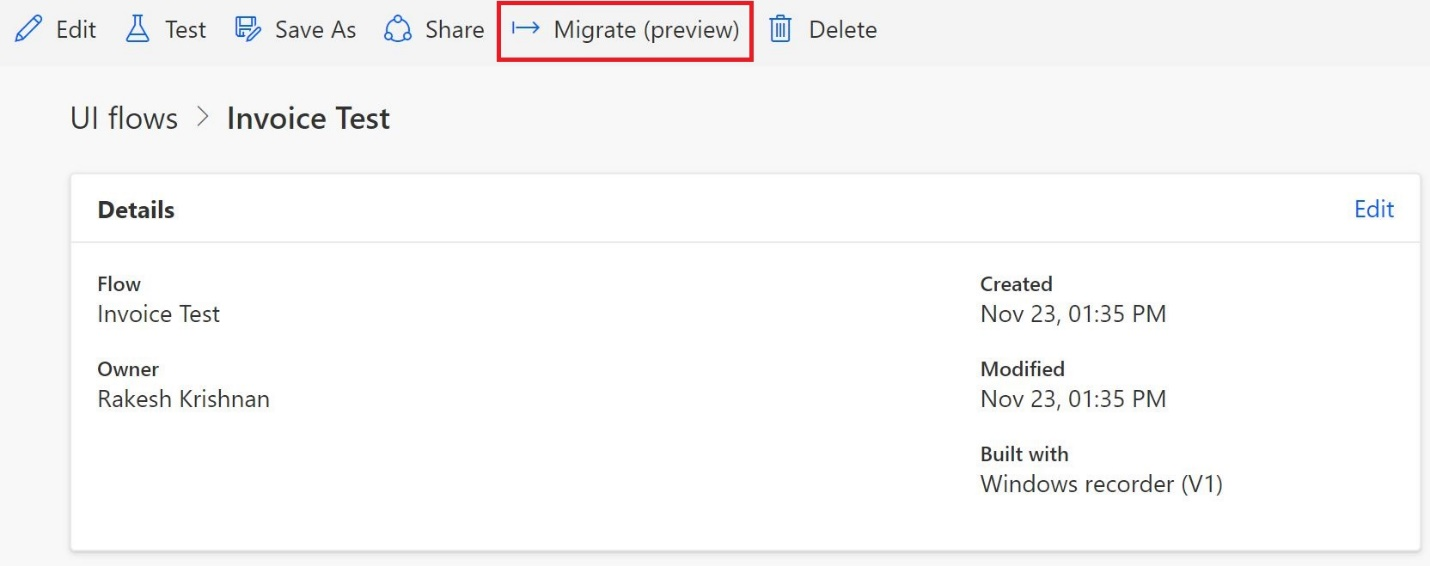
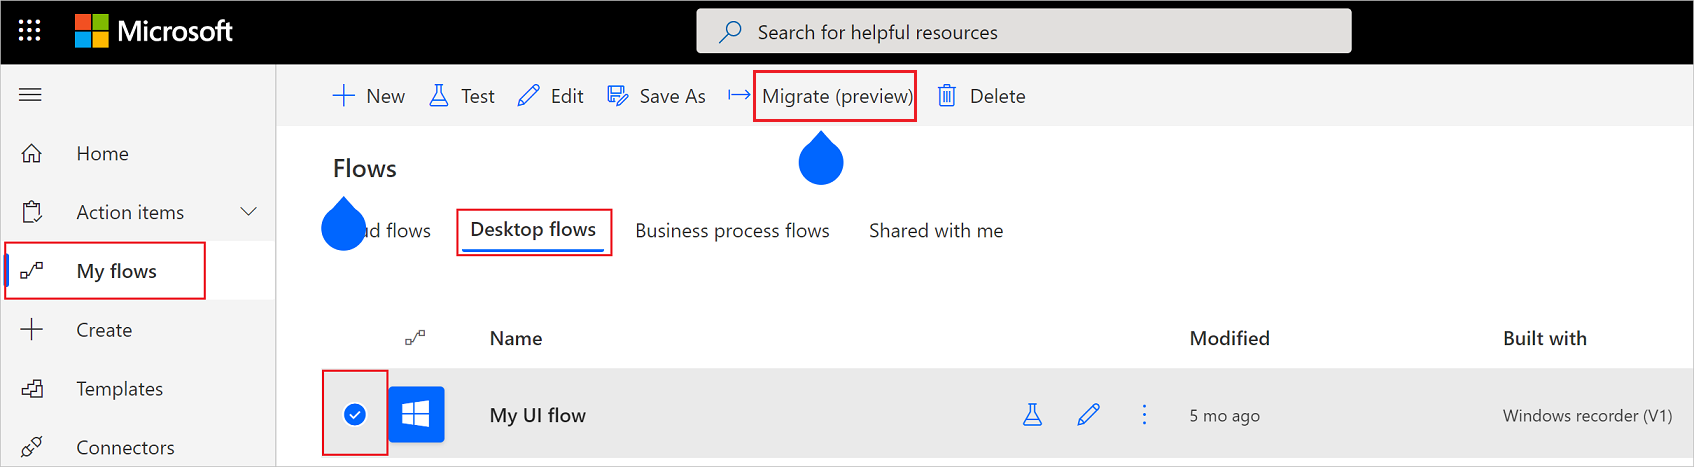
Update images and text

diff --git a/articles/desktop-flows/migrate.md b/articles/desktop-flows/migrate.md
@@ -25,24 +25,29 @@ search.audienceType:
 # Migrate from Windows recorder (V1) to Power Automate Desktop
 
 You can migrate desktop flows you've created with the legacy Windows recorder
-(v1) into Power Automate Desktop flows in just a few steps.
+(V1) into Power Automate Desktop flows in just a few steps.
 
 Follow these steps to migrate a legacy desktop flow.
 
 1. Sign into Power Automate.
 1. Select **My flows** > **Desktop flows**.
 1. Select the desktop flow you'd like to migrate to Power Automate Desktop.
-1. Select **Details**.
 1. Select **Migrate (preview)** on the desktop flow details page.
 
-   ![A screenshot that displays the migrate button](media/migrate-win-recorder/migrate-button.png)
+   ![A screenshot that displays the migrate option for a desktop flow](media/migrate-win-recorder/migrate-button.png)
 
-The migration wizard launches, when the process completes, a copy of the desktop flow is saved in the current environment. The resulting desktop flow can then be edited using the Power Automate Desktop designer. The original Windows recorder-based flow remains unchanged, in the original environment.
+   The migration wizard launches.
+
+1. Select **Migrate**.
+
+   ![A screenshot that displays the migrate button](media/migrate-win-recorder/migrate-wizard.png)
+   
+   When the process completes, a copy of the desktop flow is saved in the current environment. The resulting desktop flow can then be edited using the Power Automate Desktop designer. The original Windows recorder desktop flow remains unchanged.
+
+   ![A screenshot that displays the migrated desktop flow](media/migrate-win-recorder/migrated-flow.png)
 
    >[!NOTE]
    >Migration is available only for desktop flows that were built with Windows recorder (V1). It's not supported for desktop flows built with Selenium IDE.
-
-   ![Graphical user interface, application Description automatically generated](media/migrate-win-recorder/success.png)
 
 Once you test your new desktop flow, you may go to your existing cloud flows and
 replace the UI automation action. You need to use the **Run a desktop flow built with Power Automate Desktop** action and use the newly created desktop flow.
